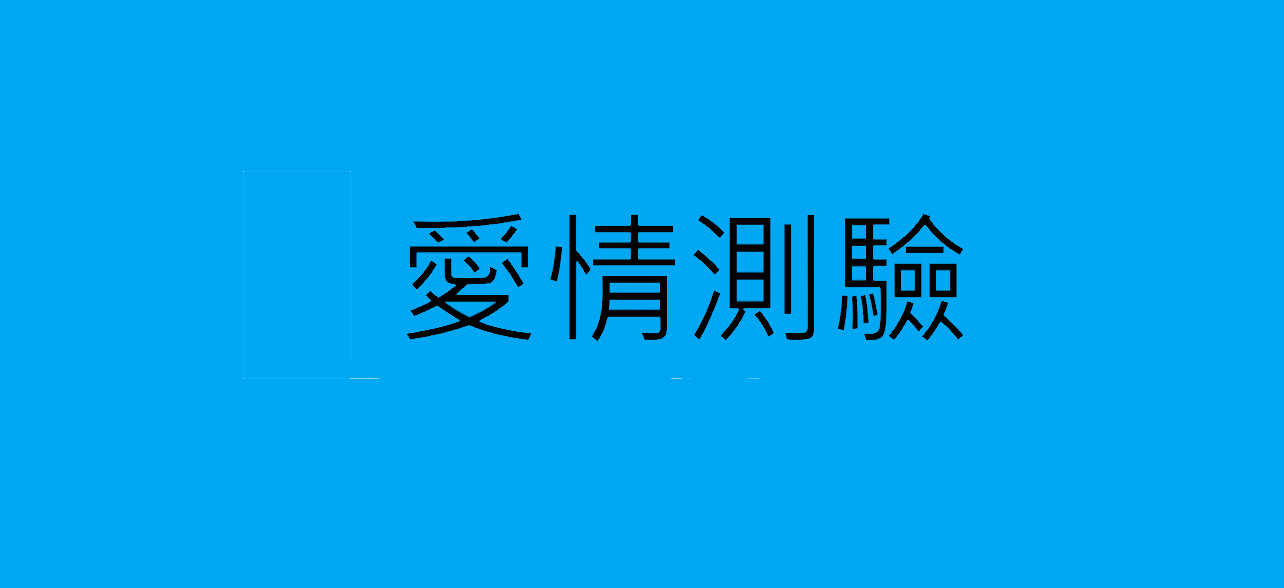
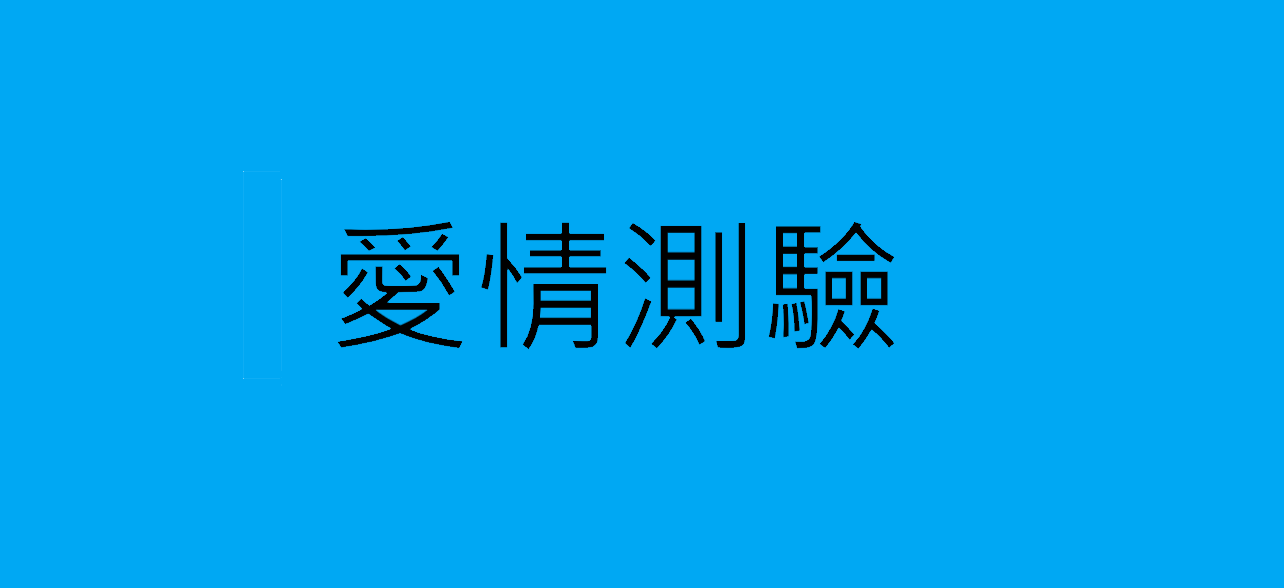
Update for tenth

Changed region(s): [[0.2492, 0.3673, 0.7477, 0.6122], [0.2492, 0.5816, 0.2804, 0.6122]]

diff --git a/assets/css/main.css b/assets/css/main.css
@@ -1360,7 +1360,7 @@ input, select, textarea {
 
 	strong, b, h1, h2, h3, h4, h5, h6 {
 		font-weight: 400;
-		color: #363636;
+		color:#363636;
 	}
 
 	h1 {
@@ -1471,7 +1471,7 @@ input, select, textarea {
 	form textarea {
 		-webkit-appearance: none;
 		border: 0;
-		background: #f4f4f4;
+		background:lightgray;
 		padding: 0.75em;
 		width: 100%;
 		-moz-transition: background-color .25s ease-in-out;
@@ -1485,7 +1485,7 @@ input, select, textarea {
 		form input[type="password"]:focus,
 		form select:focus,
 		form textarea:focus {
-			background: #f8f8f8;
+			background: lightgray;
 		}
 
 	form input[type="text"],
@@ -1589,7 +1589,7 @@ input, select, textarea {
 		-webkit-appearance: none;
 		display: inline-block;
 		background-color: #222222;
-		color: #ffffff;
+		color:white;
 		border: 0;
 		cursor: pointer;
 		outline: 0;
@@ -1941,7 +1941,7 @@ input, select, textarea {
 		position: relative;
 		overflow: hidden;
 		width: 100%;
-		background: #ffffff;
+		background:url(images/bg04.jpg);
 		box-shadow: 0px 1px 0px 0px rgba(0, 0, 0, 0.25);
 		-moz-transition: min-height 0.5s ease-in-out, max-height 0.5s ease-in-out;
 		-webkit-transition: min-height 0.5s ease-in-out, max-height 0.5s ease-in-out;
@@ -1973,7 +1973,7 @@ input, select, textarea {
 			}
 
 			#main > .panel.intro {
-				padding: 0;
+				padding: 0px;
 				height: 20em;
 				display: -moz-flex;
 				display: -webkit-flex;

diff --git a/index.html b/index.html
@@ -28,9 +28,8 @@
 						<!-- Me -->
 							<article id="home" class="panel intro">
 								<header>
-									<h1>呂星彤</h1>
-									
-									<br><p>資工系1C<br>學號:1103306</p>
+									<h1>  呂星彤</h1>
+									<br><h3>資工系1C<br>學號:1103306</h3>
 								</header>
 								<a href="#work" class="jumplink pic">
 									<span class="arrow icon solid fa-chevron-right"><span>See my work</span></span>
@@ -39,7 +38,7 @@
 							</article>
 
 						<!-- Work -->
-							<article id="work" class="panel">
+								<article id="work" class="panel">
 								<header>
 									<h2>Work</h2>
 								</header>
@@ -91,7 +90,6 @@
 									<h2>Contact Me</h2>
 								</header>
 								<form action="mailto:please5250@gmail.com.tw?subject=回饋單">
-									>
 									<div>
 										<div class="row">
 											<div class="col-6 col-12-medium">

diff --git a/20220223/style.css b/20220223/style.css
@@ -12,6 +12,6 @@ img{
         padding:10px;
         width:350px;
         position:absolute;
-        top:50%;
+        top:60%;
         left:36%;
        }
